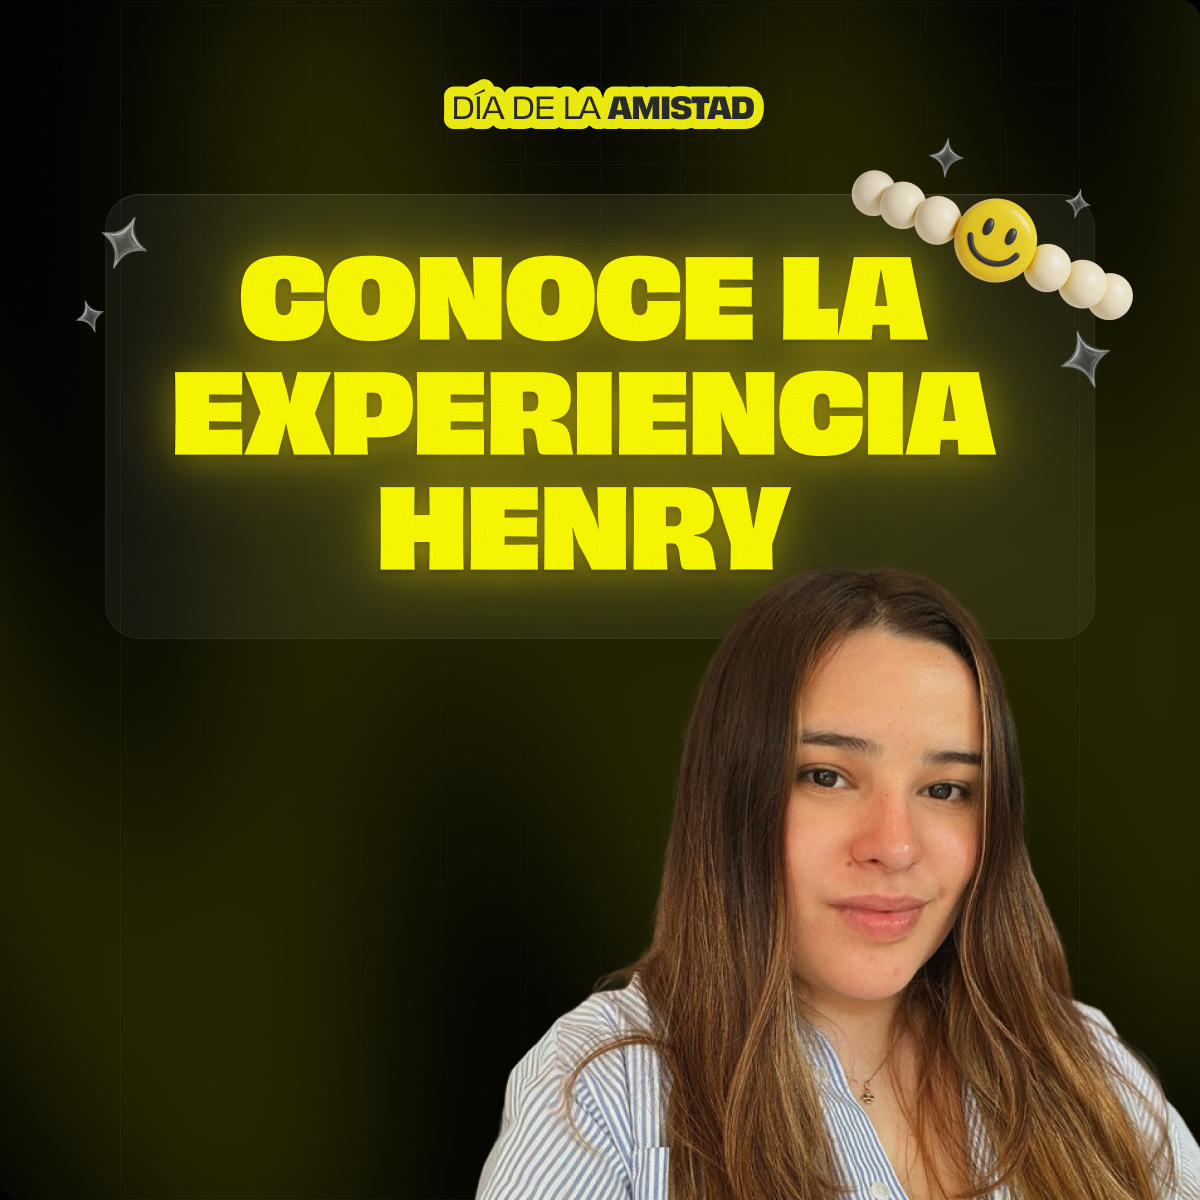
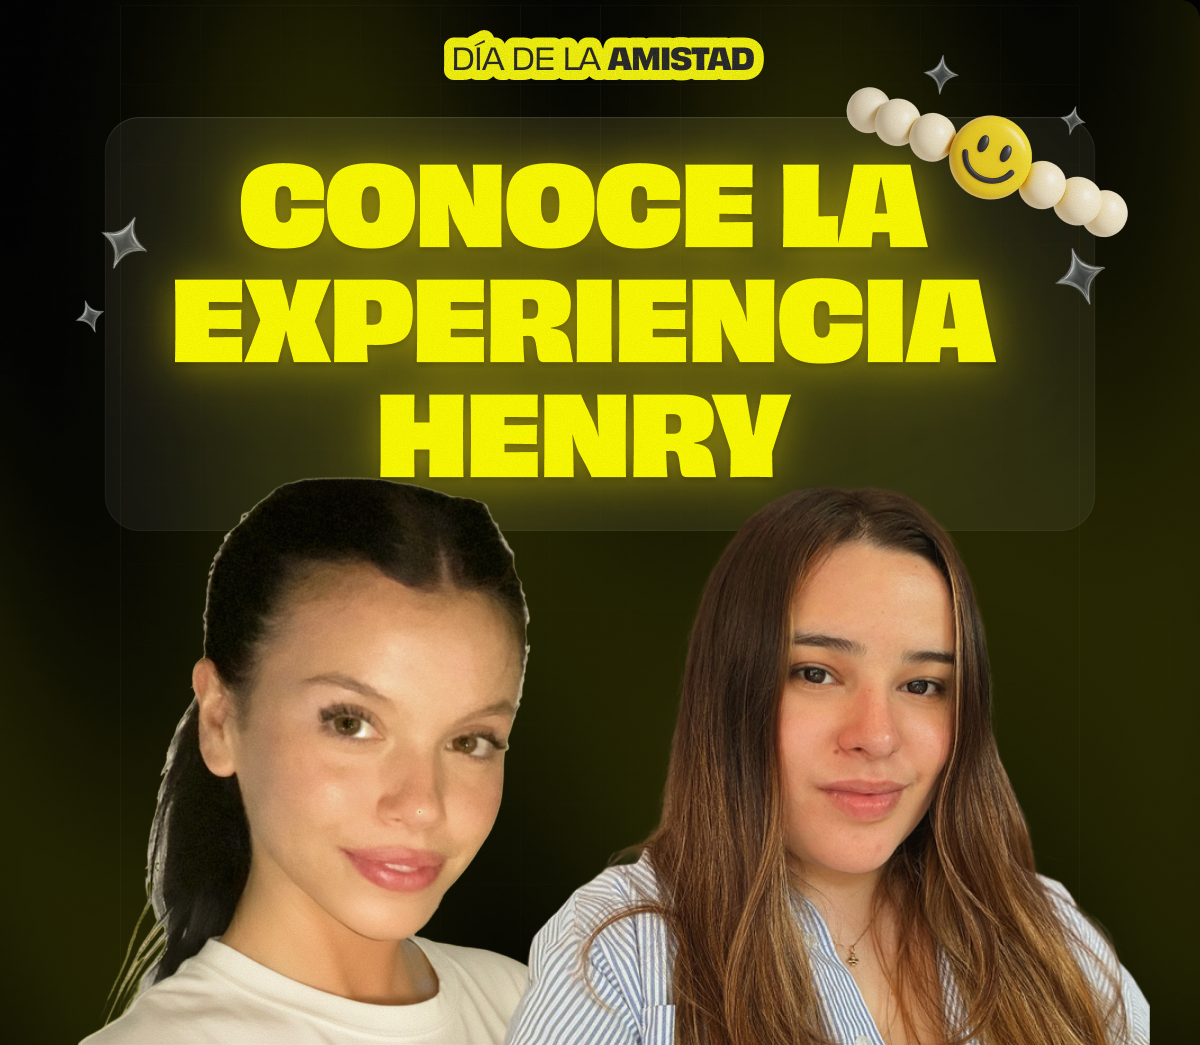
fix: actualizar foto base y bio de Flor, quitar linea final de carreras
- Foto base actualizada (ahora incluye a Flor y Paloma juntas).
- Bio de Flor: "paso de trabajar en marketing a estar en el mundo de
  los datos".
- Se quita la frase "Estas son las 5 carreras que ofrece Henry." del
  subtitulo de la seccion de carreras.

diff --git a/landing-dia-del-amigo.html b/landing-dia-del-amigo.html
@@ -364,7 +364,7 @@
         <div class="duo-text">
           <div>
             <div class="duo-name">Flor Sosa Comisso</div>
-            <div class="duo-role">Antes en marketing, hoy Data Scientist</div>
+            <div class="duo-role">Pasó de trabajar en marketing a estar en el mundo de los datos</div>
           </div>
           <div class="duo-bullets">
             <div class="value-item"><span class="value-dash"></span>Se graduó en Data Science Part Time en Henry</div>
@@ -398,7 +398,7 @@
     <div class="careers-header">
       <p class="section-label">Carreras en Henry</p>
       <h2>Elige tu camino en tecnología</h2>
-      <p class="careers-sub">Programas online, con clases en vivo y acompañamiento de expertos. Estas son las 5 carreras que ofrece Henry.</p>
+      <p class="careers-sub">Programas online, con clases en vivo y acompañamiento de expertos.</p>
     </div>
     <div class="career-grid">
       <div class="career-card">
